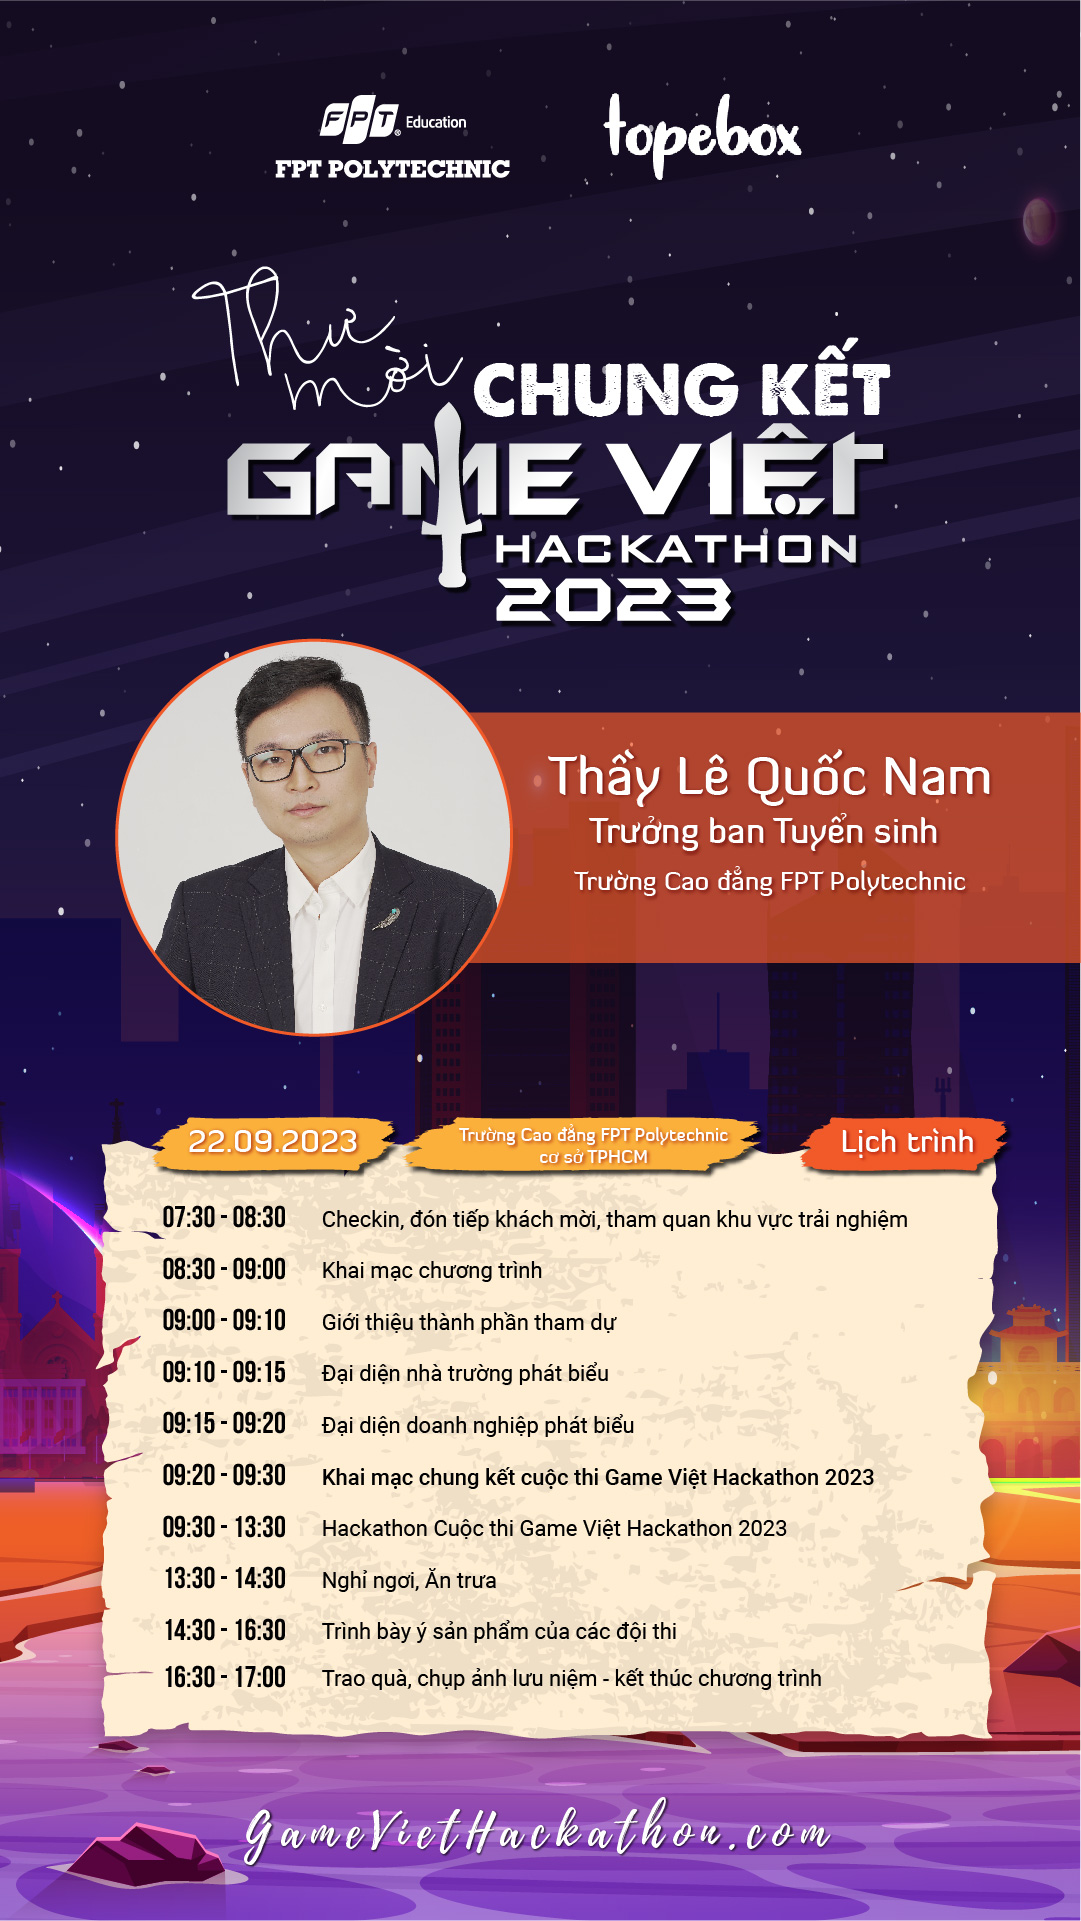
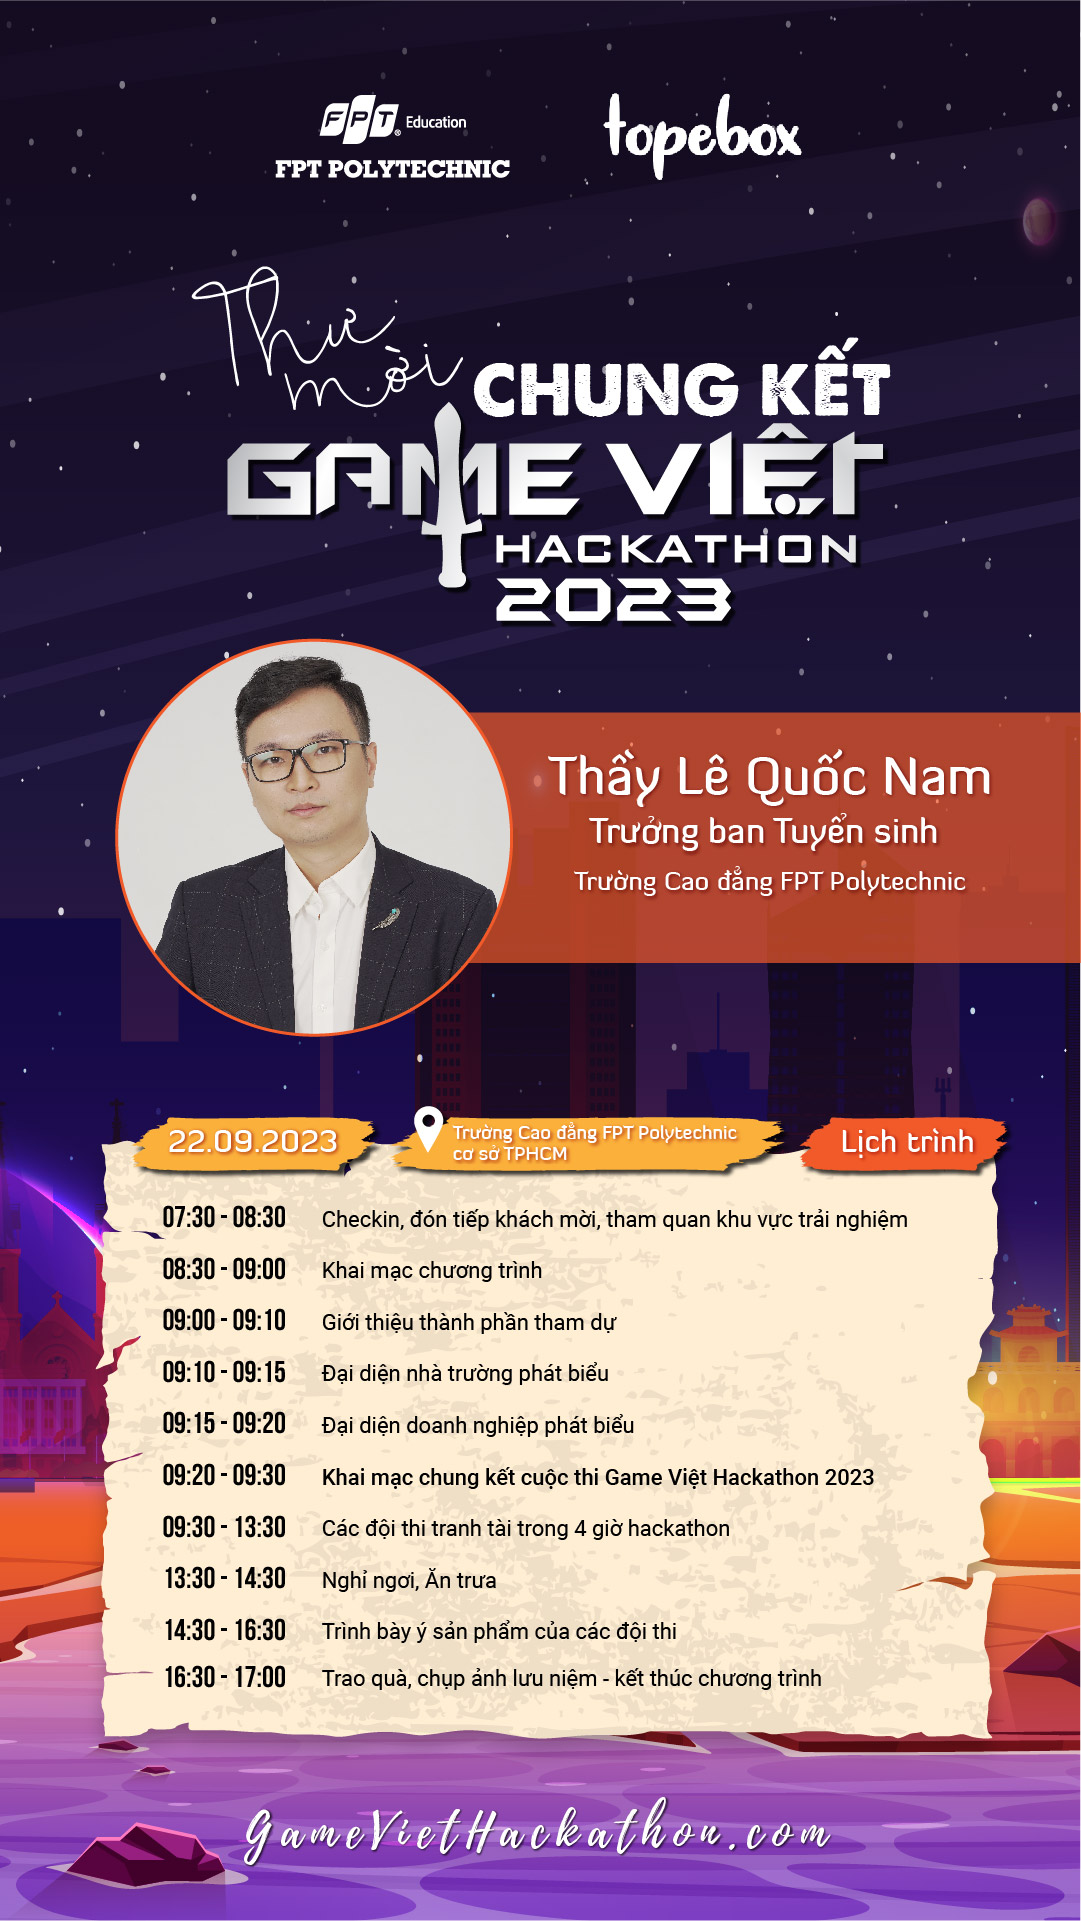
final5
fix lại agenda, them nut download và close

Changed region(s): [[0.1221, 0.5622, 0.7327, 0.6247], [0.3053, 0.7808, 0.7327, 0.8121]]

diff --git a/assets/js/play.js b/assets/js/play.js
@@ -49,43 +49,67 @@ let clearID;
 let letterContainer;
 let letterTitle;
 let letterOpenBtn;
+let letterDownload;
+let letterClose;
 let letterContent;
 let letterScore;
 let resetGame;
 
 function letterAction() {
+  // Lưu trữ các hàm gắn với sự kiện để loại bỏ sau này
+  let letterOpenClickHandler;
+  let letterCloseClickHandler;
+
   // Get title
-  letterTitle = document.querySelector('.letter-title');
+  letterTitle = document.querySelector(".letter-title");
   // Show Letter
   markContainer.style.display = "none";
   letterContainer = document.querySelector(".letter");
   if (gift.isPassed) {
-    letterTitle.innerHTML = 'CHIẾN THẮNG';
+    letterTitle.innerHTML = "CHIẾN THẮNG";
     letterContainer.classList.add("full");
-  }
-  else {
-    letterTitle.innerHTML = 'GAME OVER';
+  } else {
+    letterTitle.innerHTML = "GAME OVER";
     letterContainer.classList.add("nogift");
-  } 
+  }
   letterScore = document.querySelector("#score");
   letterScore.innerHTML = score;
   // Show Content
   if (gift.isPassed) {
     letterOpenBtn = document.querySelector(".letter-open");
-    letterOpenBtn.addEventListener("click", () => {
+
+    // Lưu hàm gắn với sự kiện click để loại bỏ sau này
+    letterOpenClickHandler = () => {
       letterContent = document.querySelector(".leter-content");
       letterContent.classList.add("active");
       // Ẩn thư
-      letterContent.addEventListener("click", () => {
-        letterContent.classList.remove("active");
+      letterClose = document.getElementsByClassName("letter-close");
+      letterClose = Array.from(letterClose);
+      letterClose.forEach((element) => {
+        // Lưu hàm gắn với sự kiện click để loại bỏ sau này
+        letterCloseClickHandler = () => {
+          letterContent.classList.remove("active");
+        };
+        element.addEventListener("click", letterCloseClickHandler);
       });
-    });
+    };
+
+    letterOpenBtn.addEventListener("click", letterOpenClickHandler);
   }
 
   // Reset Game
-
   resetGame = document.querySelector(".reset-game");
   resetGame.addEventListener("click", () => {
+    // Loại bỏ sự kiện click đã đăng ký khi nút "Reset Game" được click
+    if (letterOpenClickHandler) {
+      letterOpenBtn.removeEventListener("click", letterOpenClickHandler);
+    }
+    if (letterCloseClickHandler) {
+      letterClose.forEach((element) => {
+        element.removeEventListener("click", letterCloseClickHandler);
+      });
+    }
+
     document.querySelector(
       ".letter-btn"
     ).innerHTML = `<p class="letter-loading">Vui lòng chờ...</p>`;
@@ -174,8 +198,10 @@ let score = 0;
 window.onload = function () {
   // Load Letter
   letterImg = document.querySelector("#letter-img");
+  letterDownload = document.querySelector("#download-btn");
   let letterImage = new Image();
   letterImage.src = `../assets/img/${letterArray[id]}`;
+  letterDownload.setAttribute("href", `../assets/img/${letterArray[id]}`);
   letterImage.onload = () => {
     checkLoaded();
     letterImg.src = letterImage.src;

diff --git a/index.html b/index.html
@@ -4,7 +4,6 @@
     <meta charset="UTF-8" />
     <meta name="viewport" content="width=device-width, user-scalable=no" />
     <title>Invitation Game Viet Hackathon 2023</title>
-    <link rel="icon" href="icon.gif" type="image/gif" sizes="16x16">
     <link rel="stylesheet" href="./assets/css/config.css" />
     <link rel="stylesheet" href="./assets/css/play.css" />
     <script src="./assets/js/play.js"></script>
@@ -20,8 +19,7 @@
         <img class="welcome-click-icon"  src="../assets/img/click.png" alt="">
       </div>
       <p class='welcome-caution'>Tap vào màn hình để điều khiển</p>
-      <p class='welcome-caution'>Hãy tránh các chướng ngại vật. Thu thập 1 phần quà bí ẩn để giành chiến thắng.</p>
-    
+      <p class='welcome-caution'>Tránh các chướng ngại vật và thu thập phần quà bí ẩn để giành chiến thắng.</p>
     </div>
     <div class="letter">
       <div class="letter-header">
@@ -50,8 +48,22 @@
         </div>
       </div>
       <div class="leter-content">
-        <span>X</span>
+        <span class="letter-close">X</span>
         <img id="letter-img" alt="" />
+        <div class="letter-btn">
+          <a href="" id="download-btn" download>
+            <img
+              class="button"
+              src="./assets/img/btn_download.png"
+              alt=""
+            />
+          </a>
+          <img
+            class="button letter-close"
+            src="./assets/img/btn_back.png"
+            alt=""
+          />
+        </div>
       </div>
     </div>
     <h1 id="mark"></h1>

diff --git a/assets/css/play.css b/assets/css/play.css
@@ -158,12 +158,11 @@
     position: absolute;
     z-index: 10;
     inset: 10px;
-    background-color: white;
     transition: all ease-in-out 0.3s;
 }
 .leter-content > span{
     position: absolute;
-    right: 10px;
+    right: 30px;
     top: 10px;
     font-size: 25px;
     font-weight: bold;
@@ -176,10 +175,12 @@
     margin: 2% auto;
 }
 .leter-content img{
-    width: 100%;
-    height: 100%;
+    margin-bottom: 8px;
+    width: 95%;
+    height: 90%;
     object-fit: cover;
     object-position: center;
+    border-radius: 20px;
 }
 
 
